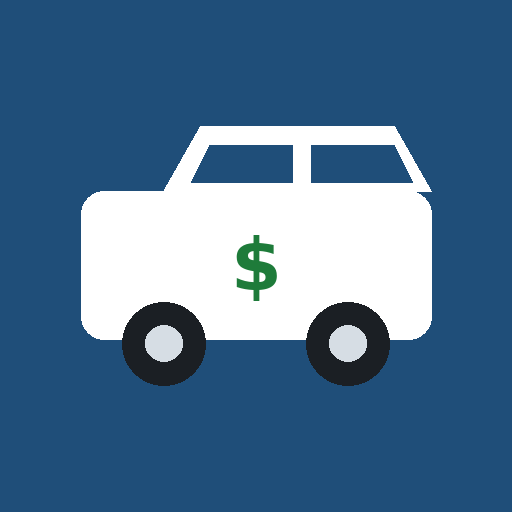
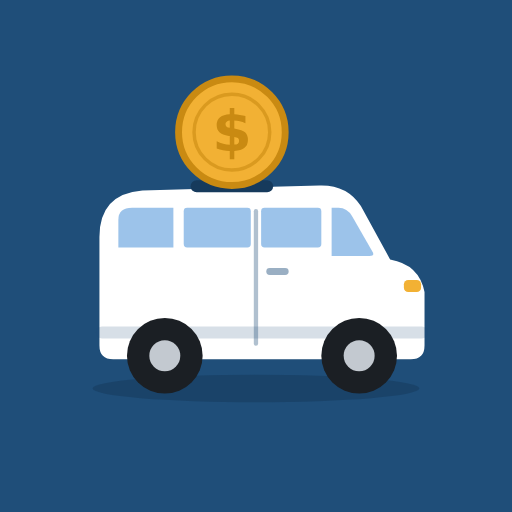
Actualización Mi Kangoo Finanzas v1.1.1

Changed region(s): [[0.1562, 0.125, 0.8438, 0.7812], [0.25, 0.7188, 0.2812, 0.75]]

diff --git a/instalacion.js b/instalacion.js
@@ -1,0 +1,111 @@
+/* Mi Kangoo Finanzas — diagnóstico de instalación (PWA).
+ * Revisa en el sitio publicado lo mismo que Chrome necesita para ofrecer "Instalar app":
+ * manifest, íconos, service worker y archivos de la versión. No toca tus datos.
+ * evaluar() es pura (se prueba con Node); revisar() hace los pedidos desde el navegador. */
+'use strict';
+
+const Instalacion = (function () {
+  const ARCHIVOS_APP = ['index.html', 'styles.css', 'version.js', 'calc.js', 'graficos.js', 'instalacion.js', 'app.js', 'sw.js'];
+
+  /* r = { seguro, sinConexion, manifest: {estado, json, error}, iconos: [{src, sizes, purpose, estado, tipo, ancho, alto}],
+   *       archivos: [{nombre, estado}], versionPublicada, versionEnUso, sw: {registrado, activo, controla}, instalada } */
+  function evaluar(r) {
+    const items = [];
+    const ok = (texto) => items.push({ ok: true, texto });
+    const mal = (texto, arreglo) => items.push({ ok: false, texto, arreglo });
+    if (r.instalada) ok('Estás usando la app instalada.');
+    if (r.sinConexion) {
+      mal('No hay conexión: no se puede revisar el sitio publicado.', 'Conectate a internet y volvé a tocar "Revisar instalación".');
+      return { listo: false, items, motivo: 'sin-conexion' };
+    }
+    if (r.seguro) ok('La conexión es segura (https).');
+    else mal('La página no se abrió con https.', 'Abrí la dirección que empieza con https:// (GitHub Pages la da así).');
+
+    const m = r.manifest || {};
+    if (m.estado !== 200) mal('No se encontró el archivo manifest.webmanifest (respuesta ' + (m.estado || 'sin respuesta') + ').', 'Subí manifest.webmanifest a GitHub, en la misma carpeta que index.html.');
+    else if (!m.json) mal('El archivo manifest.webmanifest está dañado: ' + (m.error || 'no se puede leer') + '.', 'Volvé a subir manifest.webmanifest desde el ZIP.');
+    else {
+      const j = m.json;
+      if ((j.name || j.short_name) && j.display === 'standalone' && j.start_url) ok('El manifest está completo (nombre, modo app y página de inicio).');
+      else mal('Al manifest le faltan datos (nombre, "display": "standalone" o "start_url").', 'Volvé a subir manifest.webmanifest desde el ZIP.');
+    }
+
+    const iconos = r.iconos || [];
+    const malos = iconos.filter(i => i.estado !== 200 || !/^image\/png/.test(i.tipo || '') || !i.ancho || i.sizes !== i.ancho + 'x' + i.alto);
+    const usables = iconos.filter(i => !malos.includes(i) && (i.purpose || 'any').split(' ').includes('any') && i.ancho >= 144);
+    malos.forEach(i => {
+      if (i.estado !== 200) mal('Falta el ícono ' + i.src + ' en el sitio (respuesta ' + (i.estado || 'sin respuesta') + ').', 'Subí ' + i.src + ' a GitHub, en la misma carpeta que index.html.');
+      else if (!/^image\/png/.test(i.tipo || '')) mal('El ícono ' + i.src + ' no es una imagen PNG (llegó como ' + (i.tipo || 'desconocido') + ').', 'Volvé a subir ' + i.src + ' desde el ZIP.');
+      else mal('El ícono ' + i.src + ' mide ' + (i.ancho || '?') + 'x' + (i.alto || '?') + ' y el manifest dice ' + i.sizes + '.', 'Volvé a subir ' + i.src + ' desde el ZIP.');
+    });
+    if (m.json && !iconos.length) mal('El manifest no tiene íconos.', 'Volvé a subir manifest.webmanifest desde el ZIP.');
+    if (usables.length) ok('Hay un ícono válido para instalar (' + usables.map(i => i.src).join(', ') + ').');
+    else if (iconos.length) mal('Chrome no tiene un ícono válido de al menos 144 px: por eso no deja instalar y muestra una letra gris.', 'Subí los íconos que faltan (lista de arriba).');
+
+    const faltan = (r.archivos || []).filter(a => a.estado !== 200);
+    if (faltan.length) faltan.forEach(a => mal('Falta ' + a.nombre + ' en el sitio (respuesta ' + (a.estado || 'sin respuesta') + ').', 'Subí ' + a.nombre + ' a GitHub.'));
+    else if ((r.archivos || []).length) ok('Están todos los archivos de la app.');
+
+    if (r.versionPublicada && r.versionEnUso && r.versionPublicada !== r.versionEnUso)
+      mal('En el sitio está la versión ' + r.versionPublicada + ' y estás usando la ' + r.versionEnUso + '.', 'Cerrá la app del todo y volvé a abrirla; tocá "Actualizar ahora" si aparece.');
+    else if (r.versionPublicada) ok('La versión publicada (' + r.versionPublicada + ') es la que estás usando.');
+
+    const sw = r.sw || {};
+    if (sw.activo) ok('El modo sin conexión está activo.');
+    else mal('El modo sin conexión no está activo todavía.', 'Recargá la página una vez con internet. Si sigue así, revisá que estén todos los archivos.');
+
+    const listo = items.every(i => i.ok);
+    return { listo, items, motivo: listo ? 'ok' : 'problemas' };
+  }
+
+  function texto(res, extra) {
+    return ['Mi Kangoo Finanzas — revisión de instalación', extra || ''].concat(res.items.map(i => (i.ok ? '[OK] ' : '[X] ') + i.texto + (i.arreglo ? ' → ' + i.arreglo : ''))).join('\n');
+  }
+
+  async function pedir(url) {
+    // "diagnostico" en la dirección hace que el service worker NO responda desde la copia guardada:
+    // así vemos lo que está publicado de verdad en GitHub.
+    const u = new URL(url, location.href);
+    u.searchParams.set('diagnostico', Date.now());
+    return fetch(u.href, { cache: 'no-store' });
+  }
+
+  async function revisar(versionEnUso) {
+    const r = { seguro: window.isSecureContext && location.protocol === 'https:' || location.hostname === 'localhost' || location.hostname === '127.0.0.1',
+      instalada: matchMedia('(display-mode: standalone)').matches || navigator.standalone === true, versionEnUso, archivos: [], iconos: [] };
+    if (navigator.onLine === false) { r.sinConexion = true; return r; }
+    const link = document.querySelector('link[rel="manifest"]');
+    const urlManifest = new URL(link ? link.getAttribute('href') : 'manifest.webmanifest', location.href);
+    try {
+      const resp = await pedir(urlManifest.href);
+      r.manifest = { estado: resp.status };
+      if (resp.ok) { try { r.manifest.json = JSON.parse(await resp.text()); } catch (e) { r.manifest.error = e.message; } }
+    } catch (e) { r.sinConexion = true; return r; }
+    const iconos = (r.manifest.json && Array.isArray(r.manifest.json.icons)) ? r.manifest.json.icons : [];
+    for (const ic of iconos) {
+      const d = { src: ic.src, sizes: ic.sizes, purpose: ic.purpose || 'any' };
+      try {
+        const resp = await pedir(new URL(ic.src, urlManifest).href);
+        d.estado = resp.status; d.tipo = resp.headers.get('content-type') || '';
+        if (resp.ok) { try { const bmp = await createImageBitmap(await resp.blob()); d.ancho = bmp.width; d.alto = bmp.height; } catch (e) { /* no es imagen */ } }
+      } catch (e) { d.estado = 0; }
+      r.iconos.push(d);
+    }
+    for (const nombre of ARCHIVOS_APP) {
+      try {
+        const resp = await pedir(nombre);
+        r.archivos.push({ nombre, estado: resp.status });
+        if (nombre === 'version.js' && resp.ok) { const m = (await resp.text()).match(/MKF_VERSION\s*=\s*'([^']+)'/); if (m) r.versionPublicada = m[1]; }
+      } catch (e) { r.archivos.push({ nombre, estado: 0 }); }
+    }
+    try {
+      const reg = navigator.serviceWorker ? await navigator.serviceWorker.getRegistration() : null;
+      r.sw = { registrado: !!reg, activo: !!(reg && reg.active), controla: !!(navigator.serviceWorker && navigator.serviceWorker.controller) };
+    } catch (e) { r.sw = {}; }
+    return r;
+  }
+
+  return { ARCHIVOS_APP, evaluar, texto, revisar };
+})();
+
+if (typeof module !== 'undefined') module.exports = Instalacion;

diff --git a/app.js b/app.js
@@ -682,8 +682,10 @@ async function renderRespaldo(main) {
     h += '<div class="card"><h3>Datos de antes de la actualización</h3><p class="sub">Al pasar a la versión 1.1 (' + fechaHoraTexto(premig.guardado) + ') guardamos una copia intacta de tus datos anteriores (' + (premig.datos && Array.isArray(premig.datos.movimientos) ? premig.datos.movimientos.length : '?') + ' movimientos). No la necesitás si todo se ve bien.</p>';
     h += '<button class="btn" type="button" id="bPremig">Descargar esa copia</button></div>';
   }
+  h += tarjetaInstalacion();
   h += '<p class="sub centro">Mi Kangoo Finanzas v' + esc(APP_VERSION) + ' · Etapa 1</p>';
   main.innerHTML = h;
+  activarInstalacion();
 
   $('#bExp').addEventListener('click', async () => {
     descargar('mi-kangoo-respaldo_' + sello() + '.json', textoRespaldo(), 'application/json');
@@ -749,6 +751,55 @@ async function renderRespaldo(main) {
     if (!ok) return;
     aviso('Restauración deshecha.');
     render();
+  });
+}
+
+/* ---------- Instalación (PWA) ---------- */
+let eventoInstalar = null;
+let ultimaRevision = null;
+window.addEventListener('beforeinstallprompt', ev => {
+  ev.preventDefault();                 // guardamos el permiso para ofrecer nuestro botón
+  eventoInstalar = ev;
+  if (pantallaActual() === 'respaldo' && estado) render();
+});
+window.addEventListener('appinstalled', () => { eventoInstalar = null; aviso('App instalada. Abrila desde el ícono nuevo.'); if (pantallaActual() === 'respaldo' && estado) render(); });
+
+function tarjetaInstalacion() {
+  const instalada = matchMedia('(display-mode: standalone)').matches || navigator.standalone === true;
+  let h = '<div class="card" id="cardInstalar"><h3>Instalar la app</h3>';
+  h += '<p class="fila-icono"><img src="icon-192.png" width="56" height="56" alt=""> <span>Ícono de Mi Kangoo Finanzas: una furgoneta familiar de cinco asientos que es también una alcancía.</span></p>';
+  if (instalada) h += '<p class="msg bueno" id="estadoInstalacion">Estás usando la app instalada.</p>';
+  else if (eventoInstalar) h += '<p id="estadoInstalacion">Chrome permite instalarla en este dispositivo.</p><button class="btn primario" type="button" id="bInstalar">Instalar app</button>';
+  else h += '<p id="estadoInstalacion">Para instalarla en Android: menú ⋮ de Chrome → <b>Instalar app</b>. Si Chrome dice que no se puede, tocá "Revisar instalación".</p>';
+  h += '<p class="sub">Instalar o quitar un acceso directo no borra tus datos: quedan guardados en Chrome para esta dirección. Nunca uses "Borrar datos del sitio" sin hacer antes una copia de seguridad.</p>';
+  h += '<button class="btn" type="button" id="bRevisarInst">Revisar instalación</button><div id="resInstalacion"></div></div>';
+  return h;
+}
+
+function activarInstalacion() {
+  const bi = $('#bInstalar');
+  if (bi) bi.addEventListener('click', async () => {
+    if (!eventoInstalar) return;
+    const ev = eventoInstalar; eventoInstalar = null;
+    try { await ev.prompt(); const r = await ev.userChoice; if (r && r.outcome !== 'accepted') aviso('Instalación cancelada.'); } catch (e) { aviso('Chrome no pudo mostrar la instalación. Usá el menú ⋮ → Instalar app.', true); }
+    render();
+  });
+  $('#bRevisarInst').addEventListener('click', async ev => {
+    const box = $('#resInstalacion');
+    ev.target.disabled = true; box.innerHTML = '<p class="sub">Revisando el sitio publicado…</p>';
+    let res;
+    try { res = Instalacion.evaluar(await Instalacion.revisar(APP_VERSION)); }
+    catch (e) { res = { listo: false, items: [{ ok: false, texto: 'No se pudo completar la revisión (' + (e && e.message ? e.message : 'error') + ').', arreglo: 'Probá de nuevo con internet.' }] }; }
+    ultimaRevision = res;
+    ev.target.disabled = false;
+    if (!$('#resInstalacion')) return;
+    $('#resInstalacion').innerHTML = '<p class="msg ' + (res.listo ? 'bueno' : 'malo') + '" id="veredictoInst">' + (res.listo ? 'Todo listo: Chrome debería permitir instalar la app.' : 'Hay problemas que impiden instalar o usar sin conexión:') + '</p>' +
+      '<ul class="lista-diag">' + res.items.map(i => '<li class="' + (i.ok ? 'ok' : 'mal') + '"><span aria-hidden="true">' + (i.ok ? '✅' : '❌') + '</span> ' + esc(i.texto) + (i.arreglo ? '<br><span class="sub">Qué hacer: ' + esc(i.arreglo) + '</span>' : '') + '</li>').join('') + '</ul>' +
+      '<button class="btn" type="button" id="bCopiarInst">Copiar informe</button>';
+    $('#bCopiarInst').addEventListener('click', async () => {
+      const t = Instalacion.texto(ultimaRevision, 'Versión ' + APP_VERSION + ' · ' + location.origin + location.pathname + ' · ' + navigator.userAgent);
+      try { await navigator.clipboard.writeText(t); aviso('Informe copiado. Podés pegarlo en un mensaje.'); } catch (e) { aviso('No se pudo copiar automáticamente.', true); }
+    });
   });
 }
 

diff --git a/sw.js b/sw.js
@@ -1,9 +1,12 @@
 /* Service worker de Mi Kangoo Finanzas.
- * Versión: 1.1.0   ← debe coincidir con version.js (las pruebas lo verifican)
+ * Versión: 1.1.1   ← debe coincidir con version.js (las pruebas lo verifican)
  *
- * - Guarda TODOS los archivos de la app en una caché con el número de versión.
+ * - Guarda los archivos de la app en una caché con el número de versión.
  * - Sirve siempre desde esa caché: los archivos nunca se mezclan entre versiones.
- * - Una versión nueva se descarga completa en segundo plano; si falta un archivo, no se instala.
+ * - Una versión nueva se descarga completa en segundo plano; si falta un archivo ESENCIAL, no se instala
+ *   y sigue funcionando la versión anterior.
+ * - Los íconos no son esenciales: si faltan en el sitio, la app igual funciona sin conexión
+ *   (la pantalla Respaldo → "Revisar instalación" avisa qué falta).
  * - La versión nueva se activa solo cuando el usuario toca "Actualizar ahora".
  * - No guarda tus datos (esos están en IndexedDB).
  */
@@ -11,11 +14,14 @@ importScripts('version.js');
 const VERSION = self.MKF_VERSION;
 const PREFIJO = 'mkf-';
 const CACHE = PREFIJO + VERSION;
-const ARCHIVOS = ['./', './index.html', './styles.css', './version.js', './calc.js', './graficos.js', './app.js', './manifest.webmanifest',
-  './icons/icon-192.png', './icons/icon-512.png', './icons/icon-maskable-512.png'];
+const ESENCIALES = ['./', './index.html', './styles.css', './version.js', './calc.js', './graficos.js', './instalacion.js', './app.js', './manifest.webmanifest'];
+const ICONOS = ['./icon-192.png', './icon-512.png', './icon-maskable-512.png', './apple-touch-icon.png', './favicon-48.png', './icon.svg'];
 
 self.addEventListener('install', e => {
-  e.waitUntil(caches.open(CACHE).then(c => c.addAll(ARCHIVOS.map(u => new Request(u, { cache: 'reload' })))));
+  e.waitUntil(caches.open(CACHE).then(async c => {
+    await c.addAll(ESENCIALES.map(u => new Request(u, { cache: 'reload' })));
+    await Promise.all(ICONOS.map(u => c.add(new Request(u, { cache: 'reload' })).catch(() => null)));
+  }));
 });
 
 self.addEventListener('activate', e => {
@@ -33,6 +39,7 @@ self.addEventListener('fetch', e => {
   if (req.method !== 'GET') return;
   const url = new URL(req.url);
   if (url.origin !== self.location.origin) return;
+  if (url.searchParams.has('diagnostico')) return;   // la revisión de instalación consulta el sitio real, no la copia
   e.respondWith((async () => {
     const cache = await caches.open(CACHE);
     if (req.mode === 'navigate') {

diff --git a/index.html b/index.html
@@ -7,8 +7,11 @@
 <meta name="description" content="Ahorro y decisiones prudentes para comprar una Renault Kangoo.">
 <meta name="theme-color" content="#1f4e79">
 <link rel="manifest" href="manifest.webmanifest">
-<link rel="icon" href="icons/icon-192.png">
-<link rel="apple-touch-icon" href="icons/icon-192.png">
+<link rel="icon" type="image/png" sizes="48x48" href="favicon-48.png">
+<link rel="icon" type="image/svg+xml" href="icon.svg">
+<link rel="apple-touch-icon" href="apple-touch-icon.png">
+<meta name="mobile-web-app-capable" content="yes">
+<meta name="apple-mobile-web-app-title" content="Mi Kangoo">
 <link rel="stylesheet" href="styles.css">
 </head>
 <body>
@@ -27,6 +30,7 @@
 <script src="version.js"></script>
 <script src="calc.js"></script>
 <script src="graficos.js"></script>
+<script src="instalacion.js"></script>
 <script src="app.js"></script>
 </body>
 </html>

diff --git a/styles.css b/styles.css
@@ -98,3 +98,9 @@ svg.grafico:focus-visible { outline: 3px solid #8fb4d9; }
 .tabla-datos th, .tabla-datos td { border-bottom: 1px solid #eef1f4; padding: 6px 4px; text-align: left; }
 .tabla-datos td.num { text-align: right; white-space: nowrap; }
 .explica p { margin: 0 0 6px; color: var(--texto); font-size: .92rem; }
+
+/* ---- 1.1.1: instalación ---- */
+.fila-icono { display: flex; align-items: center; gap: 12px; }
+.fila-icono img { border-radius: 12px; flex: none; }
+.lista-diag { list-style: none; padding: 0; margin: 8px 0; }
+.lista-diag li { padding: 8px 0; border-bottom: 1px solid #eef1f4; }

diff --git a/version.js b/version.js
@@ -1,3 +1,3 @@
 /* Versión única de la app. La usan la página y el service worker.
  * Al publicar cambios: subí este número aquí Y en la línea "Versión" de sw.js (las pruebas verifican que coincidan). */
-self.MKF_VERSION = '1.1.0';
+self.MKF_VERSION = '1.1.1';

diff --git a/LEEME.md b/LEEME.md
@@ -1,24 +1,26 @@
-# Mi Kangoo Finanzas — v1.1.0
+# Mi Kangoo Finanzas — v1.1.1
 
 PWA (aplicación web instalable) sin servidor propio ni servicios pagos.
 Tus datos quedan **solo en el dispositivo** donde la usás (IndexedDB del navegador).
 No hay sincronización entre celular y computadora: para pasar datos, usá la copia de seguridad.
 
-## Archivos
-- `index.html` — estructura de la app
-- `styles.css` — diseño
+## Archivos (todos sueltos, sin subcarpetas: se suben juntos de una vez)
+- `index.html`, `styles.css` — la página y su diseño
 - `version.js` — número de versión (único lugar, junto con la línea "Versión" de `sw.js`)
-- `calc.js` — cálculos (capital, metas, estimaciones, migración de datos, validación de copias, CSV seguro)
+- `calc.js` — cálculos, migración de datos, validación de copias, CSV seguro
 - `graficos.js` — gráficos propios en SVG (sin librerías ni internet)
+- `instalacion.js` — revisión de instalación (Respaldo → "Revisar instalación")
 - `app.js` — pantallas, guardado, exportar/importar
-- `sw.js` — permite usar la app sin internet
-- `manifest.webmanifest` + `icons/` — permite instalarla
+- `sw.js` — permite usar la app sin internet y actualizarla de forma segura
+- `manifest.webmanifest` — datos para instalarla
+- `icon-192.png`, `icon-512.png`, `icon-maskable-512.png`, `apple-touch-icon.png`, `favicon-48.png`, `icon.svg` — ícono propio
+- `tests/` — pruebas automatizadas (opcional: no hace falta subirla a GitHub)
 
 ## Publicarla gratis con GitHub Pages (una sola vez, desde la computadora)
 1. Creá una cuenta en https://github.com (gratis).
 2. Botón **New repository** → nombre `mi-kangoo` → **Public** → **Create repository**.
-3. Hacé clic en **uploading an existing file** y arrastrá TODO el contenido de esta carpeta
-   (incluida la carpeta `icons`). Luego **Commit changes**.
+3. Hacé clic en **uploading an existing file** y arrastrá todos los archivos sueltos de esta carpeta
+   (la carpeta `tests` es opcional). Luego **Commit changes**.
 4. Entrá a **Settings → Pages**. En *Branch* elegí `main` y `/ (root)` → **Save**.
 5. Esperá 1–2 minutos. Tu dirección será `https://TU-USUARIO.github.io/mi-kangoo/`.
 
@@ -40,20 +42,28 @@ Respaldo → **Descargar copia de seguridad** (o **Enviar copia**) → en el otr
 Respaldo → **Elegir archivo de copia** → **Sí, restaurar**. Esto reemplaza los datos de ese equipo
 (se guardan los anteriores para poder deshacer).
 
-## Actualizar la app en GitHub Pages (por ejemplo, de 1.0.1 a 1.1.0)
-1. **Antes**, en el celular: Respaldo → Descargar copia de seguridad (y guardala fuera del teléfono).
-2. En la PC, descomprimí el ZIP nuevo.
-3. En GitHub, entrá a tu repositorio → **Add file → Upload files**.
-4. Arrastrá **todos** los archivos de la carpeta (incluida `graficos.js`, que es nueva, y la carpeta `icons`).
-   La carpeta `tests` no hace falta subirla. Tocá **Commit changes**.
-5. Esperá a que termine la publicación: pestaña **Actions**, la tarea "pages build and deployment" en verde (1 a 3 minutos).
-6. En el celular, abrí la app. Aparece "Hay una versión nueva" → **Actualizar ahora**.
-   Si no aparece, cerrala del todo (sacala de las apps recientes) y volvé a abrirla; puede hacer falta dos veces.
-7. Comprobá: Respaldo → al pie dice **v1.1.0**; misma cantidad de movimientos y mismo capital que antes.
+## Publicar la versión 1.1.1 (procedimiento seguro)
+**Antes de empezar, en el celular:** Respaldo → **Descargar copia de seguridad** y mandala a Drive o a tu mail.
 
-La 1.1 convierte tus datos al formato nuevo **sin cambiar ningún movimiento** y guarda una copia intacta de los
-datos anteriores (Respaldo → "Datos de antes de la actualización"). Si algo no se ve bien, no cargues nada nuevo,
-descargá esa copia y avisá.
+1. En la PC, descomprimí el ZIP.
+2. En GitHub, entrá a tu repositorio → **Add file → Upload files**.
+3. Seleccioná **todos los archivos sueltos** (15 archivos: 1 `.html`, 1 `.css`, 7 `.js`, 1 `.webmanifest`, 5 `.png` y 1 `.svg`; los `.md` son opcionales).
+   Los íconos ahora están sueltos, junto a `index.html`: no hay que subir carpetas.
+   **No borres nada en GitHub**: la carpeta vieja `icons` (si existe) puede quedar, no molesta.
+4. Tocá **Commit changes** y esperá que en la pestaña **Actions** la publicación quede en verde (1 a 3 minutos).
+5. **Comprobación desde la PC:** abrí `https://TU-USUARIO.github.io/TU-REPO/icon-192.png`. Tiene que verse el ícono
+   (la furgoneta con la moneda). Si ves "404", el archivo no se subió: repetí el paso 3 con ese archivo.
+6. En el celular, abrí la app como siempre (el acceso directo viejo sirve). Tocá **Actualizar ahora** cuando aparezca.
+   Si no aparece, cerrala del todo y volvé a abrirla.
+7. Verificá: Respaldo → al pie dice **v1.1.1**; misma cantidad de movimientos y mismo capital que antes.
+8. Respaldo → **Revisar instalación**. Tiene que decir "Todo listo". Si algo sale con ❌, dice qué archivo subir.
+9. Recién ahí: mantené apretado el acceso directo viejo (la "G" gris) → **Quitar**. Eso borra solo el acceso
+   directo, **no tus datos** (los datos están guardados en Chrome para esta dirección).
+10. En Chrome, abrí la app → menú ⋮ → **Instalar app** (o el botón "Instalar app" en Respaldo).
+11. Abrí la app desde el ícono nuevo y comprobá otra vez movimientos y capital.
+
+**Nunca** uses "Borrar datos del sitio", "Borrar almacenamiento" ni "Borrar datos de navegación" de Chrome: eso sí borra
+tus movimientos. Si en algún paso algo no coincide, no cargues datos nuevos y restaurá la copia del paso inicial.
 
 Para publicar una versión futura: cambiá el número en `version.js` y en la línea "Versión" de `sw.js`.
 

diff --git a/CAMBIOS.md b/CAMBIOS.md
@@ -1,5 +1,16 @@
 # Cambios
 
+## 1.1.1 — 14/11/2026 (instalación en Android; sin cambios en tus datos)
+- Íconos sueltos junto a index.html (antes en la carpeta `icons/`): si esa carpeta no llega a GitHub, Chrome no tiene
+  ícono, dice "no se puede instalar" y crea un acceso directo con una letra gris. Ahora se suben todos los archivos juntos.
+- Ícono propio: furgoneta familiar de pasajeros (3 ventanillas laterales, cinco asientos) que es una alcancía,
+  con una moneda entrando por el techo. Versión "maskable" para Android con el dibujo dentro de la zona segura.
+- Manifest con "id", rutas relativas que funcionan en la subcarpeta de GitHub Pages y página de inicio dentro del alcance.
+- Respaldo → "Instalar la app": botón "Instalar app" cuando Chrome lo permite y "Revisar instalación", que consulta
+  el sitio publicado (no la copia guardada) y dice qué archivo falta o está mal. "Copiar informe" para compartirlo.
+- Service worker: si faltan los íconos en el sitio, la app igual se instala para uso sin conexión.
+- Datos: mismo formato que la 1.1.0 (no hay migración). Las copias de 1.0.x y 1.1.0 se siguen restaurando.
+
 ## 1.1.0 — 14/11/2026 (seguimiento del capital; sin noticias ni créditos)
 - Metas de 12, 18, 24, 36 y 48 meses o cualquier plazo de 1 a 240 meses; se pueden comparar hasta 10.
 - Plan de ahorro (ahorro mensual y aguinaldo) editable "desde tal mes", con historial: los meses pasados
